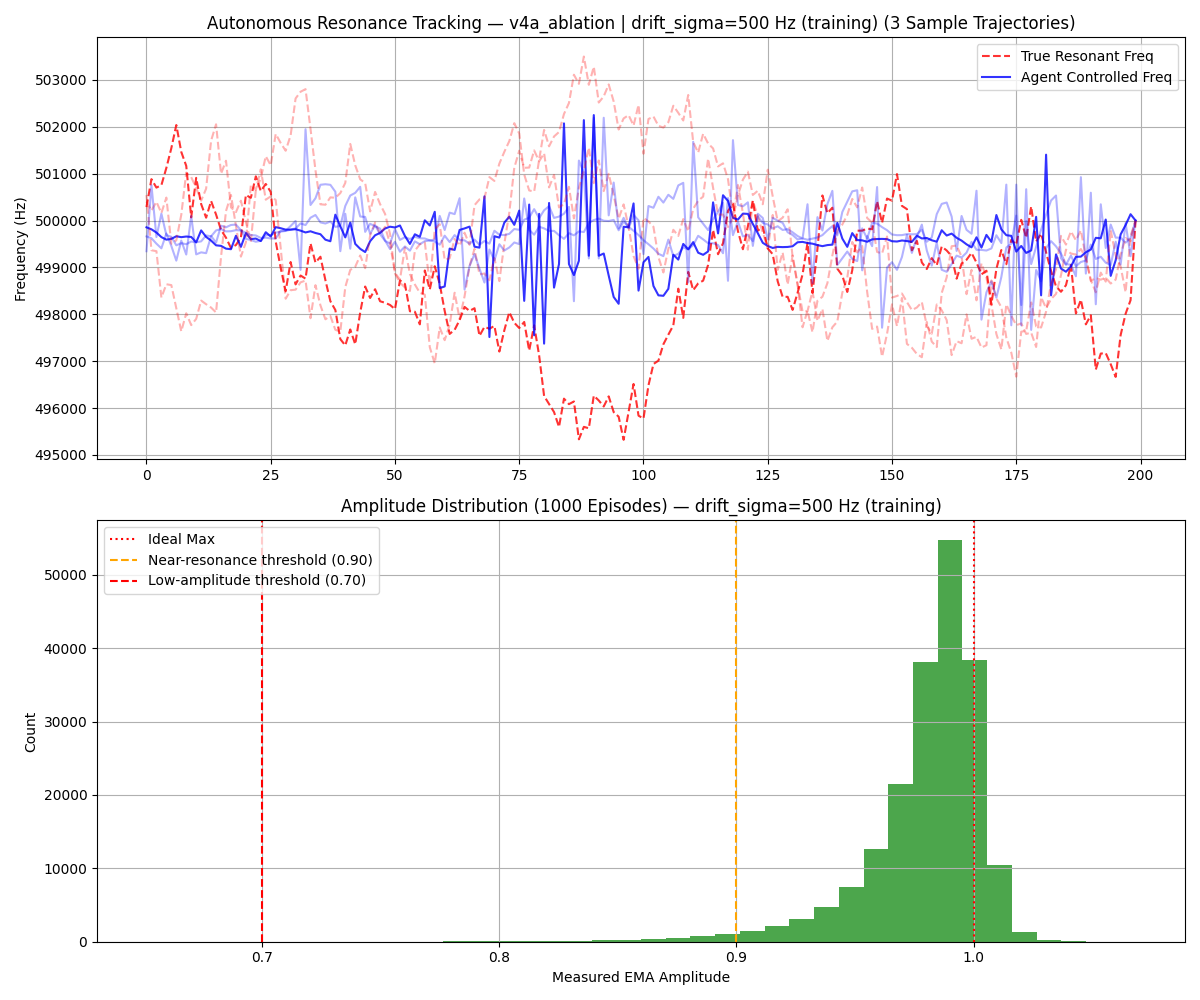
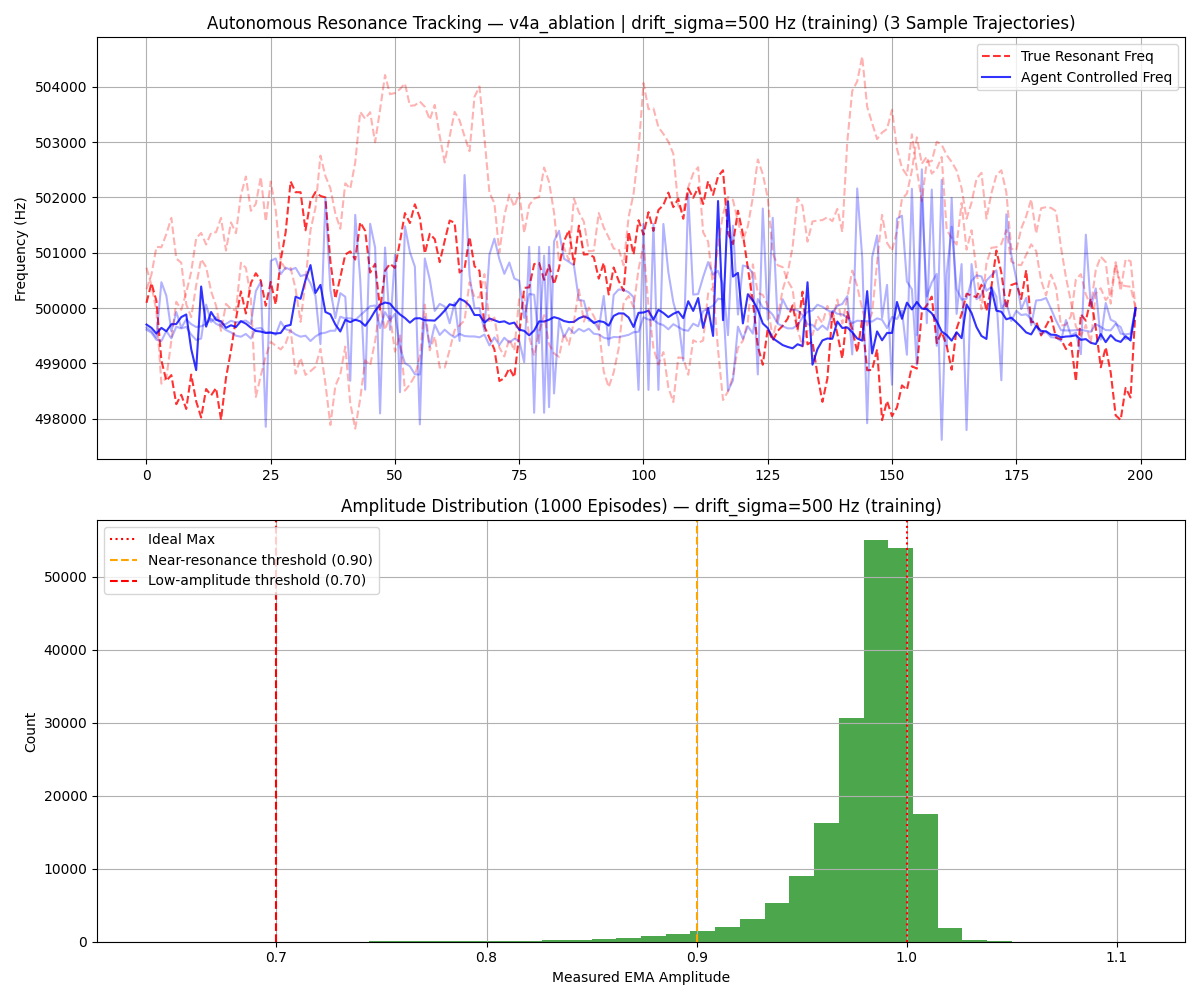
Phase 3 evaluations: OU ablations, robustness, statistical test

diff --git a/run_phase3.py b/run_phase3.py
@@ -1,0 +1,29 @@
+import os, sys, subprocess, json, time
+
+REPO = r'C:\Projects\MiniProject_Sem4'
+PY = r'conda run -n quantum_control python'
+
+def run(cmd, desc):
+    print(f'\n=== {desc} ===')
+    start = time.time()
+    res = subprocess.run(cmd, shell=True, cwd=REPO)
+    print(f'--- {desc} finished in {time.time()-start:.1f}s, exit={res.returncode} ---')
+    return res.returncode
+
+# 1. V4a & V4b evaluation under OU (5 seeds each, but we have only seed0 saved? assume seed0)
+for model in ['v4a_ablation', 'v4b_ablation']:
+    for seed in [0]:
+        run(f'{PY} -m rl_training.evaluate_agent --model {model} --seed {seed}', f'Eval {model} seed {seed} (OU)')
+
+# 2. Robustness: V3 and V4 seed3 at drift_sigma 750 and 1000
+for model, seed in [('v3_refined', None), ('v4_gradient_obs', 3)]:
+    for sigma in [750, 1000]:
+        run(f'{PY} -m rl_training.evaluate_agent --model {model} ' + (f'--seed {seed} ' if seed is not None else '') + f'--drift_sigma {sigma}', f'Robustness {model} sigma={sigma}')
+
+# 3. Sample efficiency curves (parse tensorboard)
+run(f'{PY} -c "import tbparse; print(\'tbparse ok\')"', 'Check tbparse')
+
+# 4. Statistical test (full 1000 eps) - may be long
+run(f'{PY} statistical_test.py', 'Statistical test (Mann-Whitney)')
+
+print('All Phase 3 tasks launched.')
